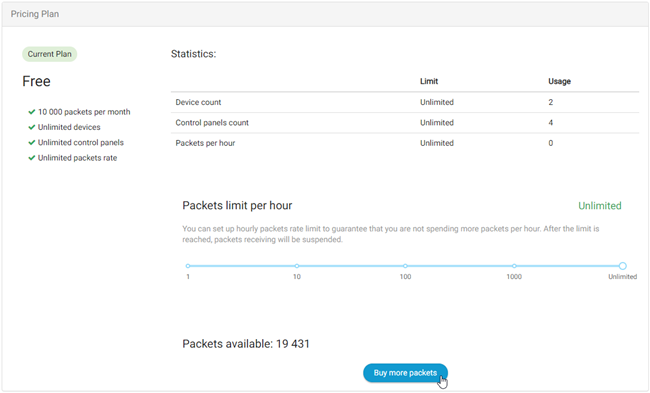
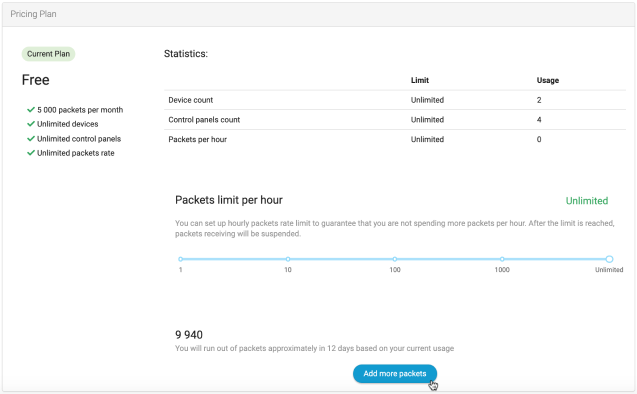
Update plans and pricing (#37)
* Update plans and pricing

* Update screenshots

diff --git a/docs/plans-and-pricing.md b/docs/plans-and-pricing.md
@@ -2,15 +2,15 @@
 
 ## The Free Tier
 
-You receive 10k free [packets](/faq/#what-are-packets) every month. This is enough to send data to the cloud every five minutes for a month. The table below compares different packet spending rates:
+You receive 5k free [packets](/faq/#what-are-packets) every month. This is enough to send data to the cloud every five minutes for a month. The table below compares different packet spending rates:
 
-|                            | 1 packet per 5 minutes | 1 packet per minute | 2 packets per minute |
-| -------------------------- | ---------------------: | ------------------: | -------------------: |
-| **1 hour**                 |                     12 |                  60 |                  120 |
-| **24 hours**               |                    288 |               1,440 |                2,880 |
-| **1 week**                 |                  2,016 |              10,080 |               20,160 |
-| **1 month**                |                  8,928 |              44,640 |               89,280 |
-| **extra packets required** |                      0 |              34,640 |               79,280 |
+|                            | 1 packet per 10 minutes | 1 packet per 5 minutes | 1 packet per minute |
+| -------------------------- | ----------------------: | ---------------------: | ------------------: |
+| **1 hour**                 |                       6 |                     12 |                  60 |
+| **24 hours**               |                     144 |                    288 |               1,440 |
+| **1 week**                 |                   1,008 |                  2,016 |              10,080 |
+| **1 month**                |                   4,464 |                  8,928 |              44,640 |
+| **extra packets required** |                       0 |                  3,928 |              39,640 |
 
 ## Purchase Extra Packets
 
